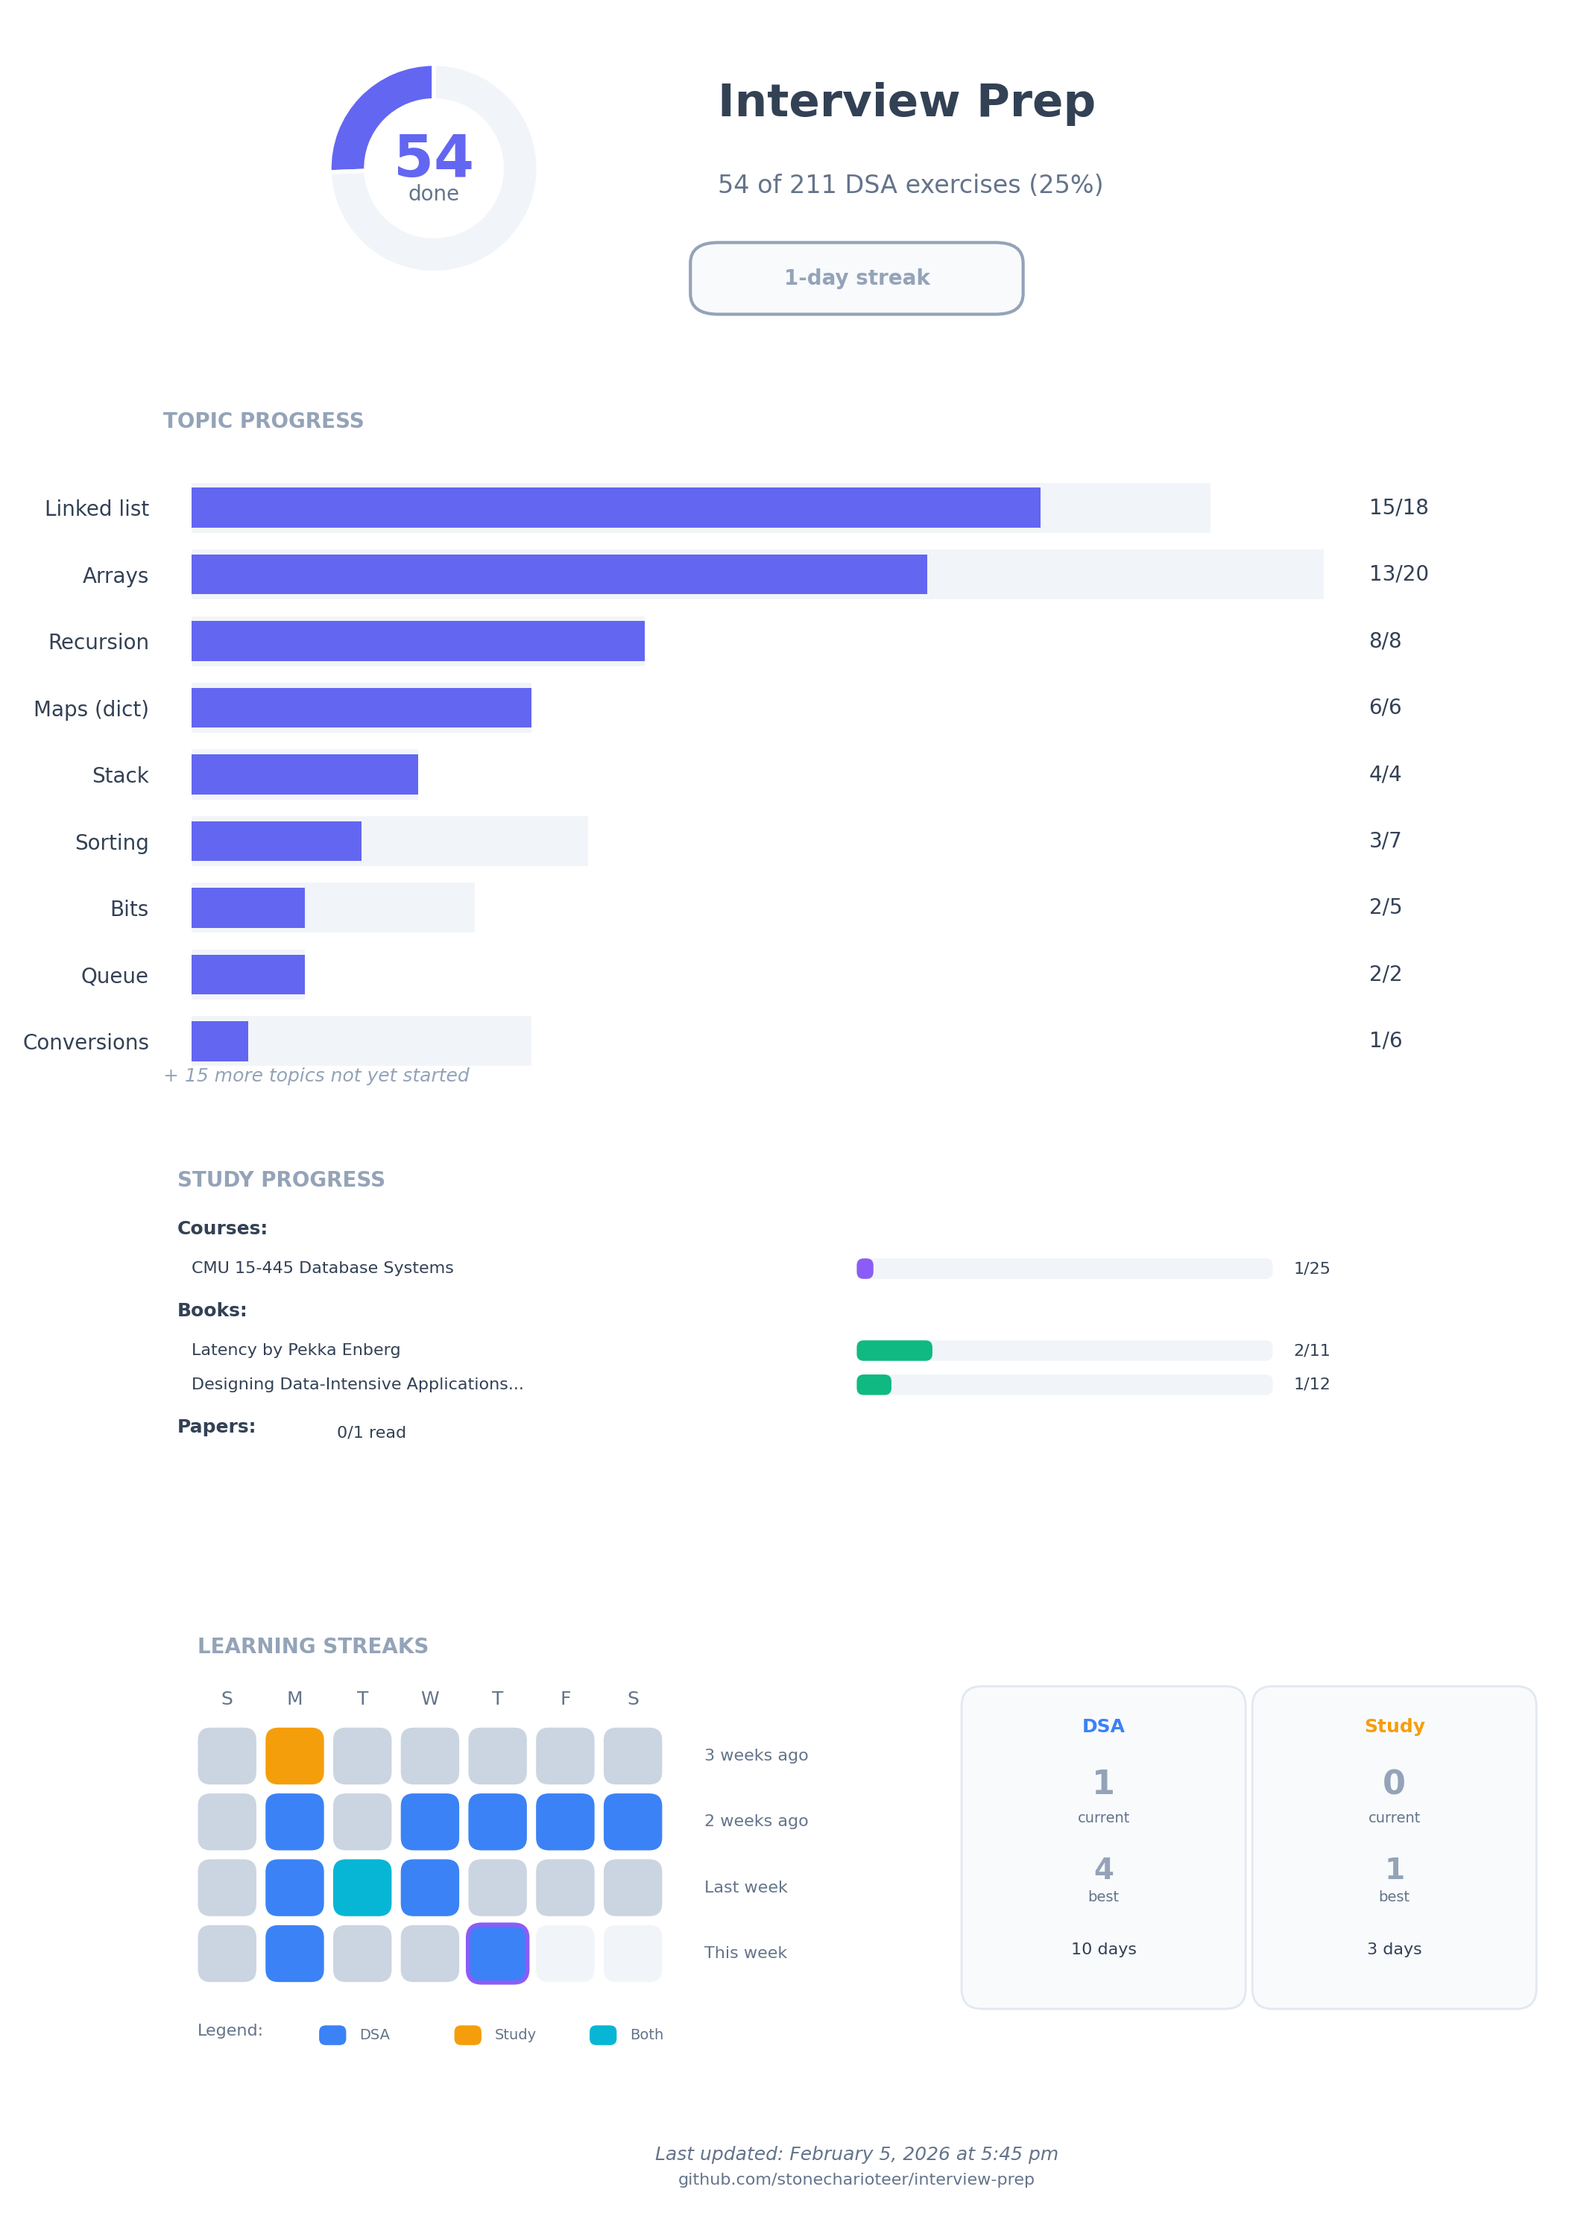
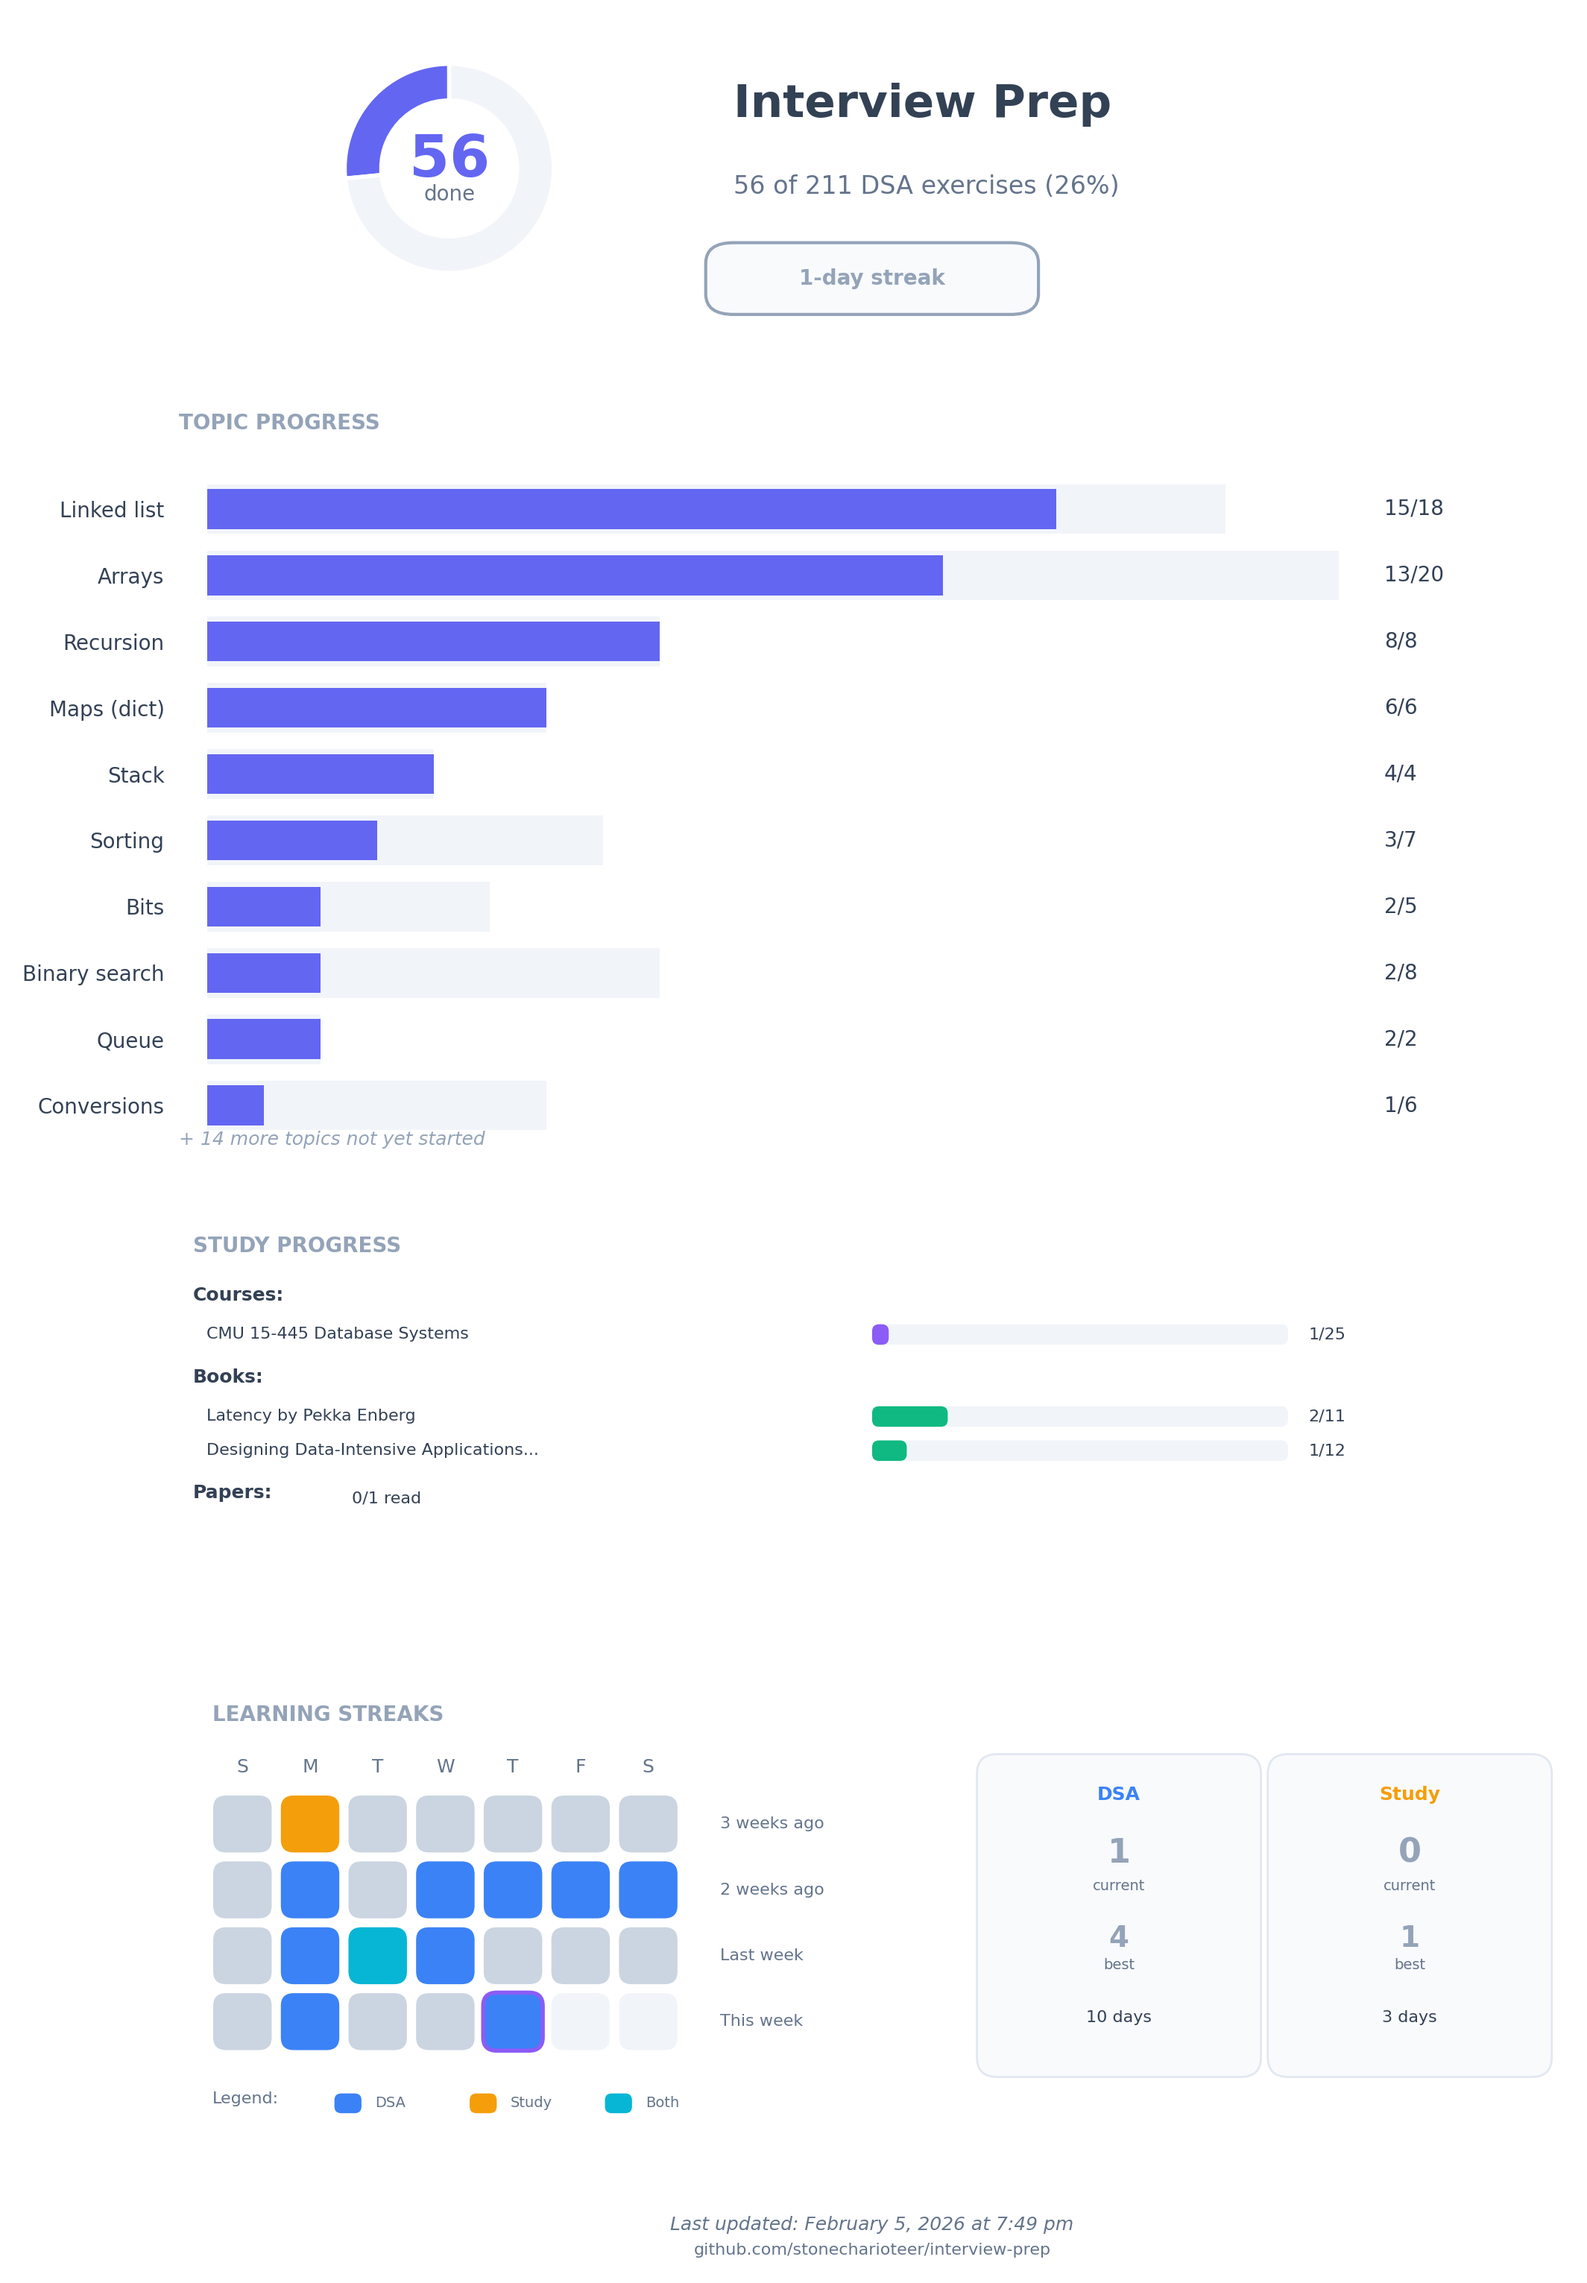
solve: binary search first and last occurrence

diff --git a/python/src/year_2026/binary_search.py b/python/src/year_2026/binary_search.py
@@ -3,12 +3,34 @@
 
 def find_first_occurrence(arr, target):
     """Return index of first (leftmost) occurrence of target in sorted arr, or -1 if not found."""
-    raise NotImplementedError
+    left, right = 0, len(arr) - 1
+    location = -1
+    while left <= right:
+        mid = (left + right) // 2
+        if target > arr[mid]:
+            left = mid + 1
+        elif target < arr[mid]:
+            right = mid - 1
+        else:
+            location = mid
+            right = mid - 1
+    return location
 
 
 def find_last_occurrence(arr, target):
     """Return index of last (rightmost) occurrence of target in sorted arr, or -1 if not found."""
-    raise NotImplementedError
+    left, right = 0, len(arr) - 1
+    location = -1
+    while left <= right:
+        mid = (left + right) // 2
+        if target > arr[mid]:
+            left = mid + 1
+        elif target < arr[mid]:
+            right = mid - 1
+        else:
+            location = mid
+            left = mid + 1
+    return location
 
 
 def search_insert_position(arr, target):

diff --git a/python/test/test_2026_binary_search.py b/python/test/test_2026_binary_search.py
@@ -5,7 +5,6 @@ from src.year_2026 import binary_search
 pytestmark = pytest.mark.binary_search
 
 
-@pytest.mark.xfail(reason="Not implemented yet", raises=NotImplementedError)
 class TestFindFirstOccurrence:
     def test_multiple_occurrences(self):
         assert binary_search.find_first_occurrence([1, 2, 2, 2, 3], 2) == 1
@@ -20,7 +19,6 @@ class TestFindFirstOccurrence:
         assert binary_search.find_first_occurrence([2, 2, 2, 3], 2) == 0
 
 
-@pytest.mark.xfail(reason="Not implemented yet", raises=NotImplementedError)
 class TestFindLastOccurrence:
     def test_multiple_occurrences(self):
         assert binary_search.find_last_occurrence([1, 2, 2, 2, 3], 2) == 3

diff --git a/exercises.md b/exercises.md
@@ -1,6 +1,6 @@
 # Exercise List
 
-**Progress: 54/211 exercises completed in Python (25%)**
+**Progress: 56/211 exercises completed in Python (26%)**
 
 1. Arrays: `min.` 🐍[x] 🦀[ ] 🟨[ ]
 2. Arrays: `max.` 🐍[x] 🦀[ ] 🟨[ ]
@@ -39,8 +39,8 @@
 35. Bits: `check if number is power of two.` 🐍[x] 🦀[ ] 🟨[ ]
 36. Bits: `count set bits (Hamming weight).` 🐍[x] 🦀[ ] 🟨[ ]
 37. Arrays: `binary_search (only after is_sorted is solid).` 🐍[x] 🦀[ ] 🟨[ ]
-38. Binary search: `find_first_occurrence (leftmost index).` 🐍[ ] 🦀[ ] 🟨[ ]
-39. Binary search: `find_last_occurrence (rightmost index).` 🐍[ ] 🦀[ ] 🟨[ ]
+38. Binary search: `find_first_occurrence (leftmost index).` 🐍[x] 🦀[ ] 🟨[ ]
+39. Binary search: `find_last_occurrence (rightmost index).` 🐍[x] 🦀[ ] 🟨[ ]
 40. Binary search: `search_insert_position.` 🐍[ ] 🦀[ ] 🟨[ ]
 41. Linked list: `insert_at_index.` 🐍[x] 🦀[ ] 🟨[ ]
 42. Maps (dict): `get_or_default.` 🐍[x] 🦀[ ] 🟨[ ]
